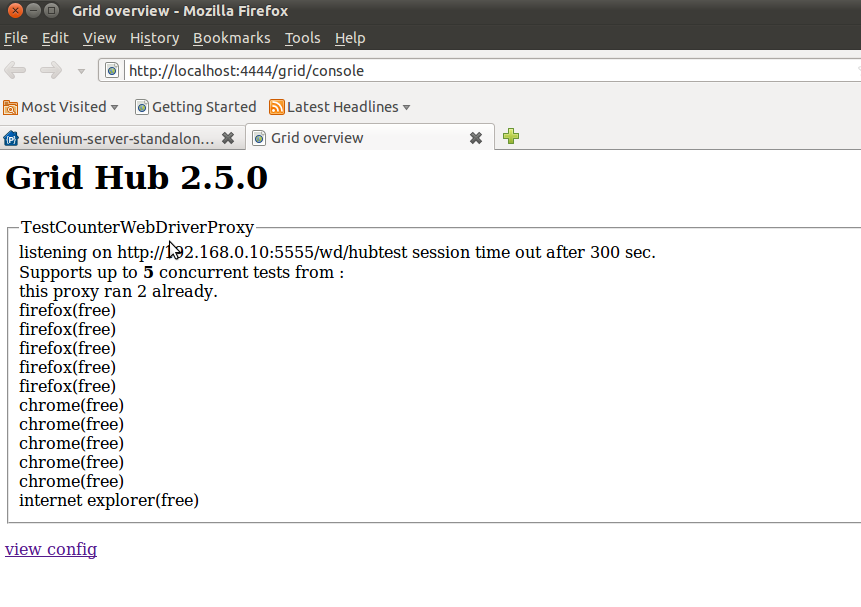
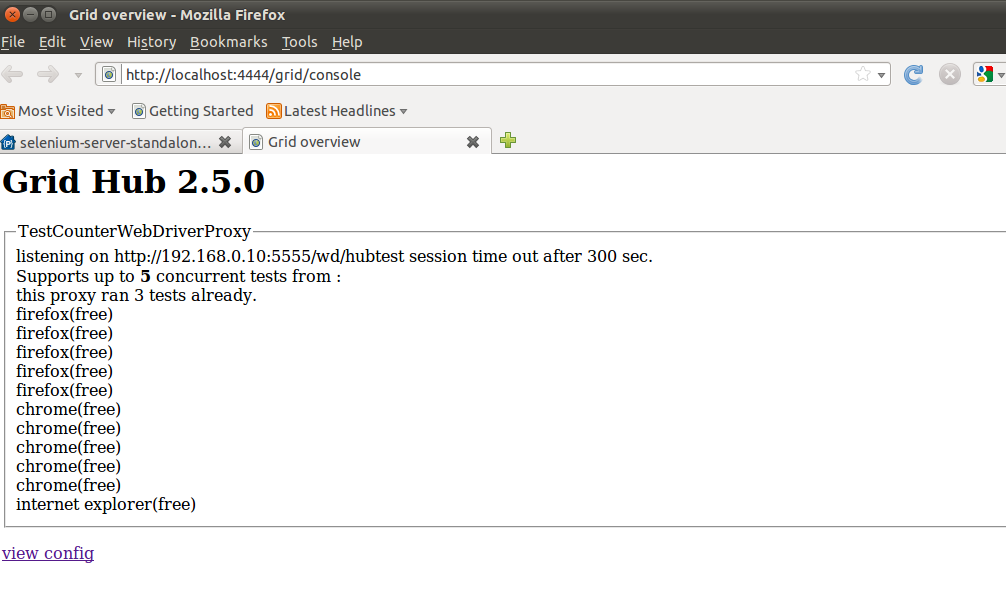
updating picture

Changed region(s): [[0.0, 0.3558, 1.0, 0.9489], [0.0, 0.0, 1.0, 0.3262], [0.5436, 0.2076, 1.0, 0.2669]]

diff --git a/src/main/java/org/openqa/demo/TotalTestAwareHtmlRenderer.java b/src/main/java/org/openqa/demo/TotalTestAwareHtmlRenderer.java
@@ -31,7 +31,7 @@ public class TotalTestAwareHtmlRenderer implements HtmlRenderer {
     builder.append("<br>Supports up to <b>").append(proxy.getMaxNumberOfConcurrentTestSessions())
         .append("</b> concurrent tests from : </u><br>");
 
-    builder.append("this proxy ran ").append(proxy.getTotalTests()).append(" already.<br>");
+    builder.append("this proxy ran ").append(proxy.getTotalTests()).append(" tests already.<br>");
 
 
     for (TestSlot slot : proxy.getTestSlots()) {
